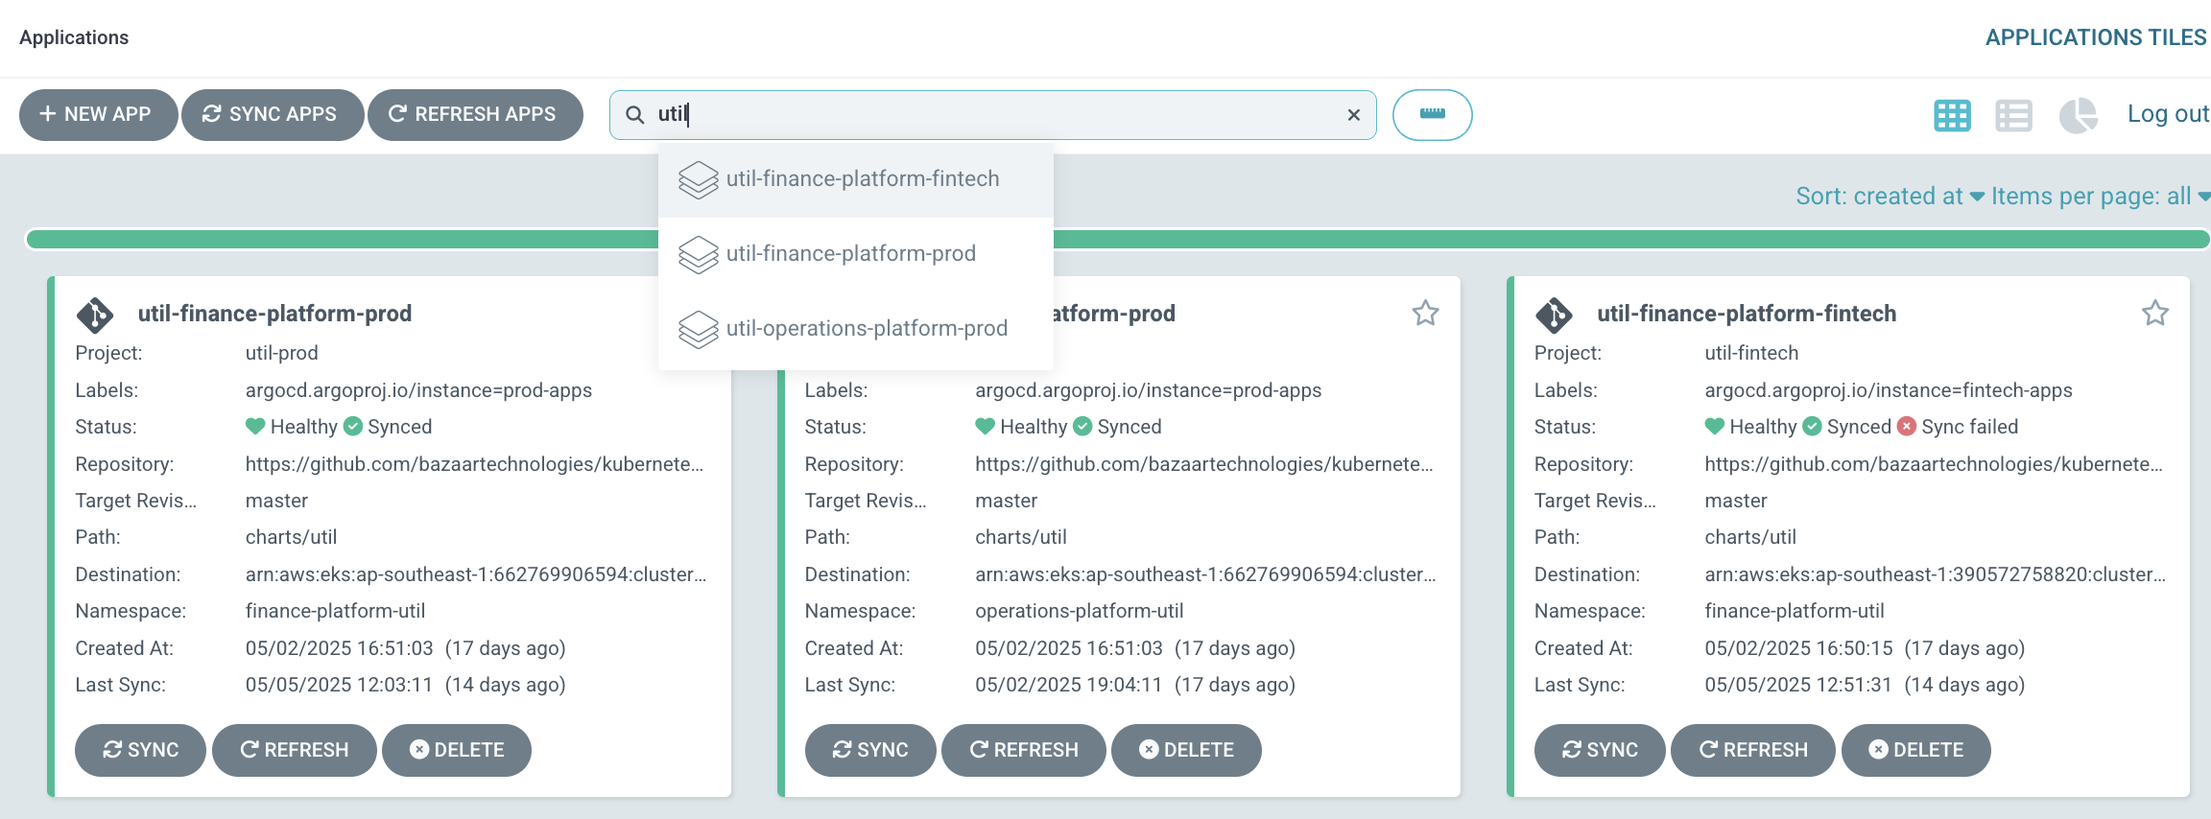
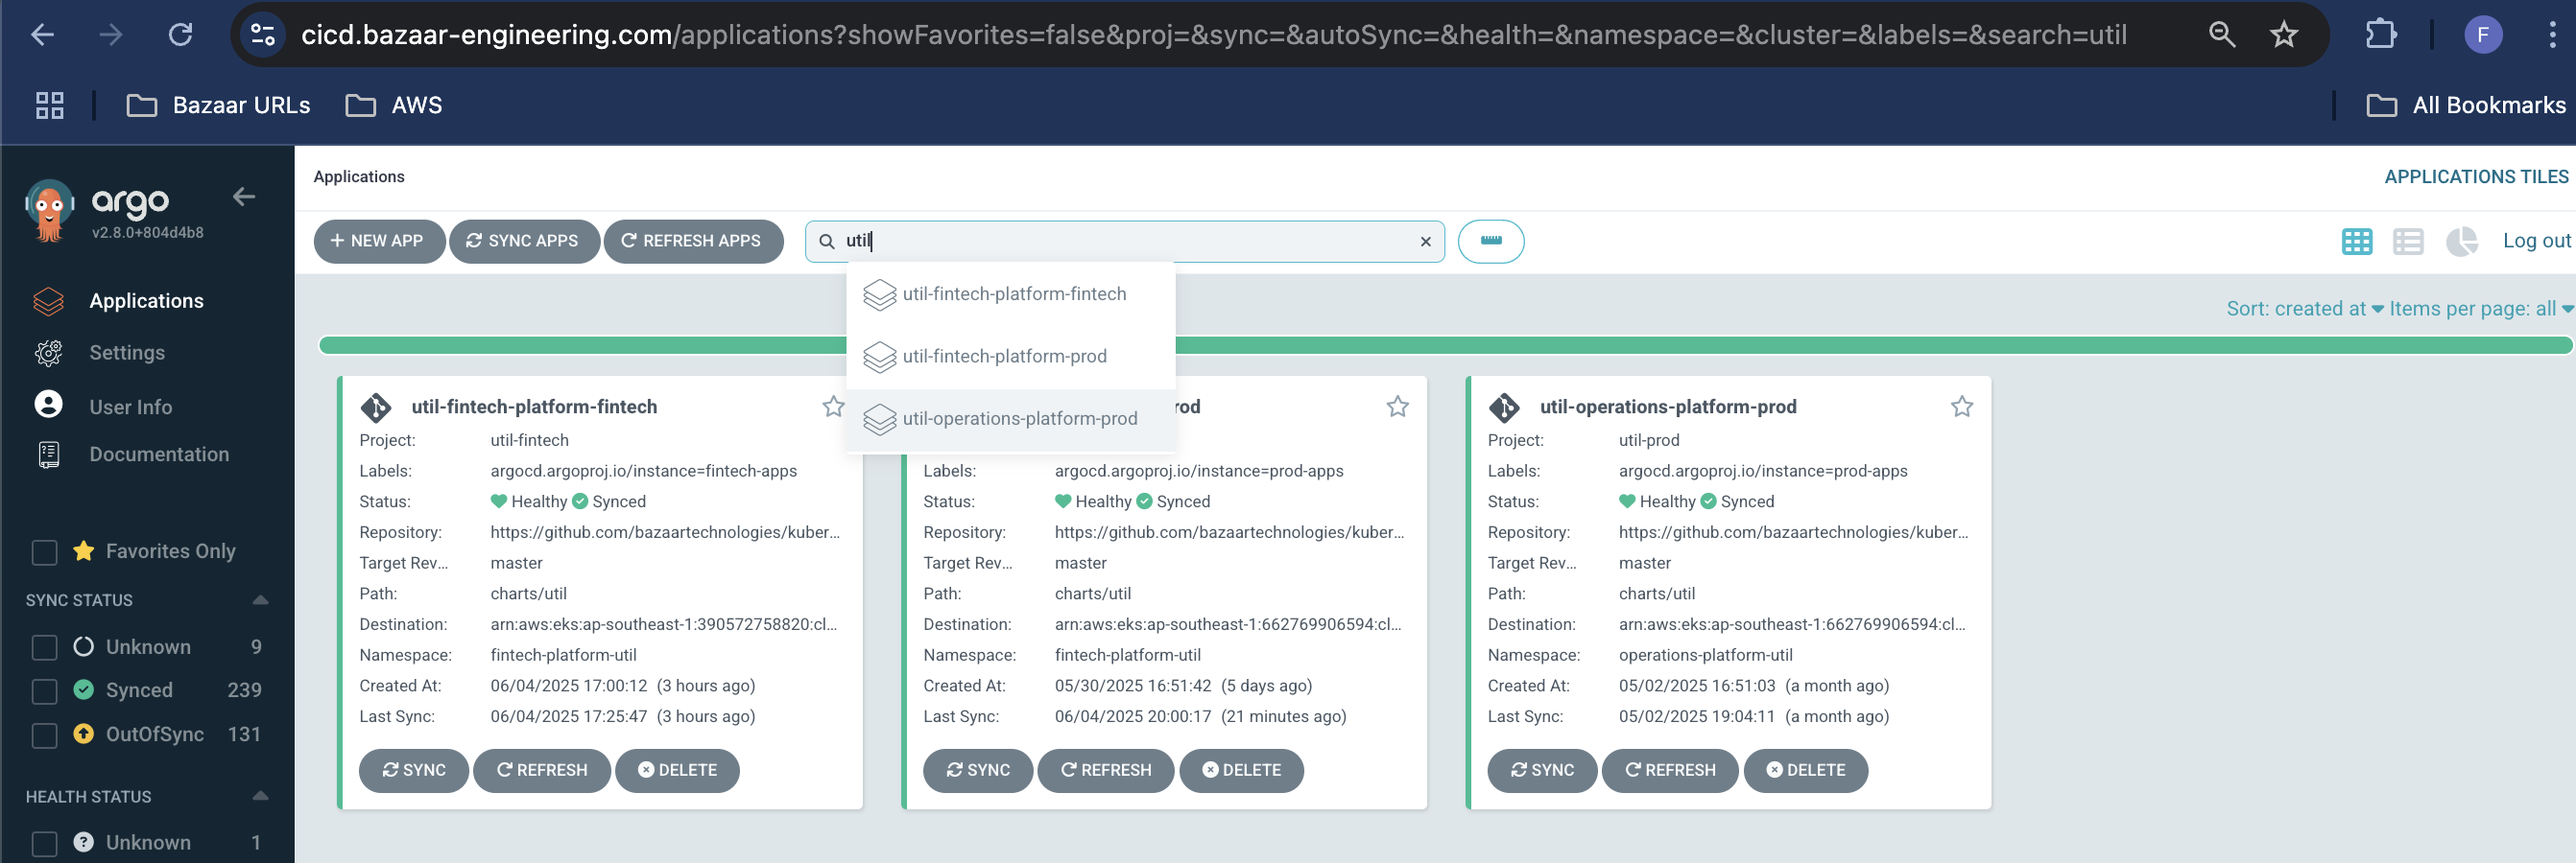
Deployed df3de0a with MkDocs version: 1.6.1

diff --git a/Platform Tools/Platform-shell-util/shell/index.html b/Platform Tools/Platform-shell-util/shell/index.html
@@ -733,7 +733,19 @@
 <li>Login to ArgoCD</li>
 <li>Search in apps 'util'</br>
 <img alt="image.png" src="../assets/util-0.png" /></br></li>
-<li>Here you'll see multiple utils now as per the naming convention like</br><strong>util-finance-platform-fintech</strong></li>
+<li>Here you'll see multiple utils now as per the naming convention like</br><strong>util-fintech-platform-fintech</strong></br>
+<strong>fintech-platform</strong> is the domain
+<strong>fintech</strong> is the cluster</li>
+<li>Click on the util in which your service lies according to the domain and cluster</li>
+<li>Just click on the sync button
+<img alt="image.png" src="../assets/util-1.png" /></br>
+<strong>After syncing you'll see the blue progressing icon that means session has started for 5 mins</strong>
+<img alt="image.png" src="../assets/util-2.png" /></br></li>
+<li>Click on the pod you'll switch to terminal tab
+<img alt="image.png" src="../assets/util-3.png" /></br></li>
+<li>I ran this curl command but you will run the actual endpoint which you wish to call but make sure the service you are calling is in the domain fintech-platform and running in EKS cluster fintech account for rest services we have more utils w.r.t that
+<code>curl bazaar-lending-service-base.lending-platform.svc.cluster.local/actuator/health</code>
+<img alt="image.png" src="../assets/util-4.png" /></br></li>
 </ol>
 
 
